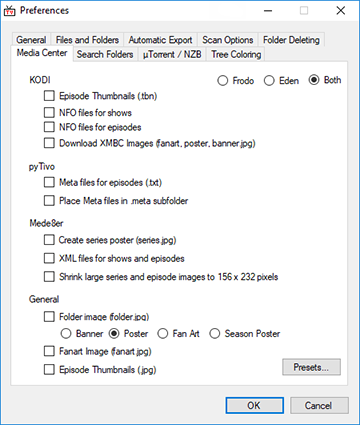
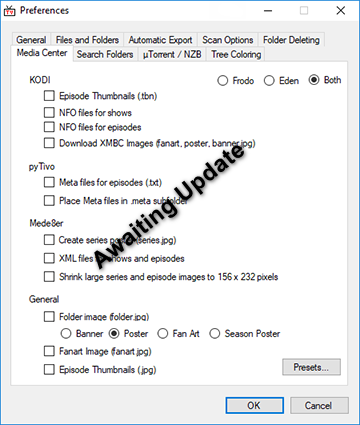
Updating options.md

Changed region(s): [[0.2444, 0.3365, 0.7028, 0.6424]]

diff --git a/assets/css/style.scss b/assets/css/style.scss
@@ -124,9 +124,10 @@ table {
 }
 
 th, td, td:first-child {
-  padding: 0 5px;
-  font-weight: normal;
-  border: none;
+    padding: 0 5px;
+    font-weight: normal;
+    border: none;
+    vertical-align: baseline;
 }
 
 #banner {

diff --git a/options.md b/options.md
@@ -5,7 +5,7 @@ One of TV Rename's strongest (and most confusing) features is its configurabilit
 
 Luckily the "out-of-the-box" defaults work well, and should you wish to change any settings, all the stuff you can "fiddle with" is described here.
 
-As you can see from the image above there are a number of options, each of which is discussed below.
+Use the links (below or left) to jump to a specific item.
 
 {:.center}
 [Offline Operation](#offline-operation)&nbsp;&#9670;&nbsp;[Automatic Background Download](#automatic-background-download)&nbsp;&#9670;&nbsp;[Preferences](#preferences "Delve into the preferences")
@@ -14,11 +14,13 @@ As you can see from the image above there are a number of options, each of which
 [Ignore List](#ignore-list)&nbsp;&#9670;&nbsp;[Filename Template Editor](#filename-template-editor)&nbsp;&#9670;&nbsp;[Search Engines](#search-engines)&nbsp;&#9670;&nbsp;[Filename Processors]()
 
 ## Offline Operation
+If **Offline Operation** is enabled TV Rename will firstly prompt you to make sure you wish to go offline, and if you click `Yes` it will run on locally cached data from TheTVD. This is useful if you happen to be somewhere that doesn't have internet access because it will stop TV Rename attempting to update.
 
 {:.toplink}
 [Return to Top]()
 
 ## Automatic Background Download
+If **Automatic Background Download** is enabled any action that reads data from TheTVDB will trigger a cache update prior to processing. 
 
 {:.toplink}
 [Return to Top]()
@@ -26,7 +28,9 @@ As you can see from the image above there are a number of options, each of which
 ## Preferences
 
 ![The Preferences Tabs](images/options/preferences-tabs-01.png){:.pic-l}
-The tabs in "Preferences", are each discussed below.<br />
+The tabs in "Preferences", are each discussed below.
+
+Use the links (below) to jump to a specific item...
 
 {:.center}
 [Media Center](#media-center)&nbsp;&#9670;&nbsp;[Search Folders](#search-folders)&nbsp;&#9670;&nbsp;[µTorrent / NZB](#µtorrent--nzb)&nbsp;&#9670;&nbsp;[Tree Coloring](#tree-coloring)
@@ -42,7 +46,7 @@ The tabs in "Preferences", are each discussed below.<br />
 
 This is were you tell TV Rename about your media player (and hence, the additional files you may need to download)
 
-### AWAITING UPDATE
+### Awaiting Update
 
 {:.toplink}
 [Return to Preferences](#preferences)&nbsp;&#9670;&nbsp;[Return to Top]()
@@ -159,11 +163,23 @@ This option sets the language for returned data when requesting information from
 ![Preferences - The Files and Folders tab](images/options/preferences-files-folders-01.png){:.pic-l}
 The "Filename Replacements" grid controls the replacement of illegal characters in filenames.
 
-If the filename contains a character that isn't allowed in a windows filename the rows in this grid are checked to discover what to use instead of the problem character.
+If the filename contains a character that isn't supported in a windows filename the grid is checked row by row to discover what to use instead of the problem character.
 
 "Video Extensions:" tells TV Rename the extensions to match when looking for video files. The entries should be semicolon delimited, not contain spaces and include the "." preceding the extension.
 
-"Other Extensions:" follows the same rules as "Video Extensions" but the file extensions specified are media related rather than video specific
+"Other Extensions:" follows the same rules as "Video Extensions" but the file extensions specified are typically for video related files rather than video. The extensions listed by default are :-
+
+|*.srt*|Subtitles in text format.|
+|------|---|
+|*.nfo*|An XML style file that contains information about the video, such as a title, summary, list of actors, year of production etc. This information is often used by media players to provide a more immersive viewing experience.|
+|------|---|
+|*.txt*|Text files can be any text but quite often, if the base name of the text file is the same as that of the video file, they contain subtitles in text format.
+|------|---|
+|*.tbn*|A KODI/XBMC specific jpeg, (doesn't seem to be as common as it used to be).
+
+It is common for files to have the same base name for example: BigBuckBunny.avi, BigBuckBunny.srt and BigBuckBunny.nfo. This helps keep them organised.
+
+The rest of the options are straightforward and need little explanation.
 
 {:.toplink}
 [Return to Preferences](#preferences)&nbsp;&#9670;&nbsp;[Return to Top]()
@@ -293,10 +309,10 @@ The available tags with their definitions are listed below: -
 [Return to Top]()
 
 ## Search Engines
-![The Modify Search Engines window](images/options/modify-search-engines-01.png)<br />
+![The Modify Search Engines window](images/options/modify-search-engines-01.png){:.pic-l}
 The *Modify Search Engines* window controls TV Rename's outgoing interface with the world (other than TheTVDB). Here, you can configure how and where TV Rename points a web browser searching for files.
 
-Using the `Add` and `Delete` buttons you can create or remove records at will, and the `Tags...` button will help you insert tags in the created URL. The tags supported are the same as for the previous item.
+Using the `Add` and `Delete` buttons you can create or remove records at will, and the `Tags...` pop up a list of supported tags to remind you whats available. (The tags supported are the same as those listed in the *Filename Template Editor.)
 
 As an example, here is a URL entry for Google.
 
